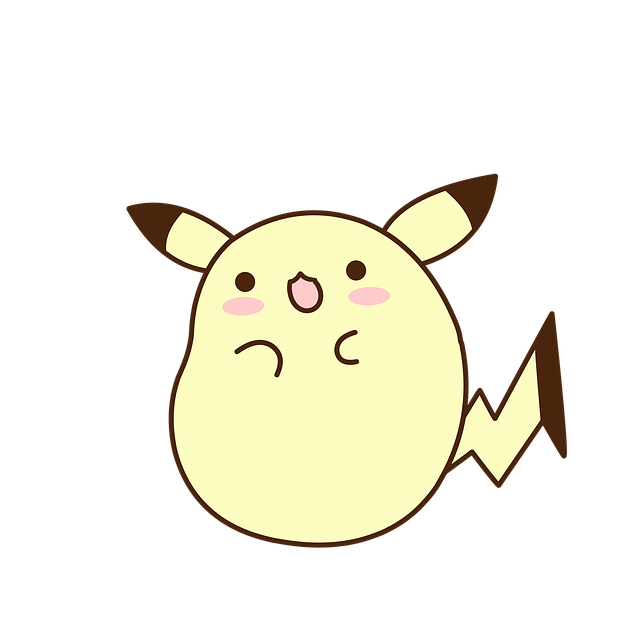
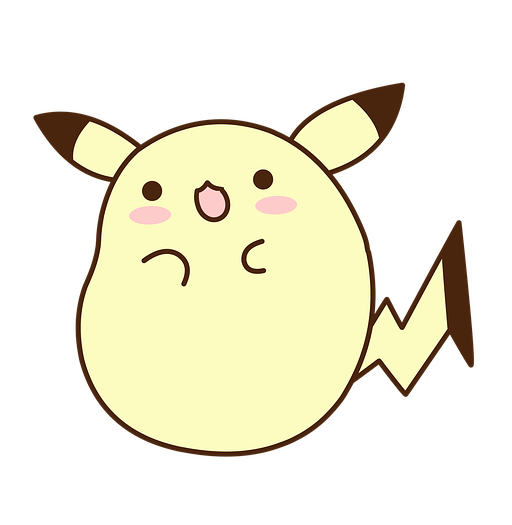
html updates

Changed region(s): [[0.0625, 0.1524, 0.9375, 0.8838]]

diff --git a/js/main.js b/js/main.js
@@ -86,11 +86,12 @@ disclaimerCloseBox.onclick = function() {
 
 
 let logo = document.getElementById("main-logo");
+let isSub = document.getElementById('isSub').innerHTML;
 
-let logoClicked= false;
+let logoClicked= true; 
 
 logo.onclick = function() {
-    if (!logoClicked) {
+    if (!logoClicked) {  
     document.documentElement.style.setProperty('--themeColor01', '#c1a231');
     document.documentElement.style.setProperty('--themeColor01-hover', '#5f4a0c');
     document.documentElement.style.setProperty('--themeColor02-hover', '#bea82d');
@@ -98,9 +99,17 @@ logo.onclick = function() {
     document.documentElement.style.setProperty('--themeColor04', '#f7f0c6');
     document.documentElement.style.setProperty('--themeColor05', 'rgb(249, 246, 224)');
     logoClicked= true;
+    if (isSub=="sub") {
+        console.log(logo.src)
+        logo.src="../img/pikachu.png";
+
+    } else {
+        logo.src="img/pikachu.png";
+    }
+    
 
     } else if (logoClicked) {
-
+    console.log(logo.src) 
     document.documentElement.style.setProperty('--themeColor01', '#a231c1');
     document.documentElement.style.setProperty('--themeColor01-hover', '#5f0c5f');
     document.documentElement.style.setProperty('--themeColor02-hover', '#712dbe');
@@ -108,10 +117,109 @@ logo.onclick = function() {
     document.documentElement.style.setProperty('--themeColor04', '#edc6f7');
     document.documentElement.style.setProperty('--themeColor05', 'rgb(247, 224, 249)');
     logoClicked= false;
+    logo.src="img/icon/ditto.png";
+    if (isSub=="sub") {
+        logo.src="../img/icon/ditto.png";
+    } else {
+        logo.src="img/icon/ditto.png";
+    }
 
     }
 
 };
+
+
+// let logoSub = document.getElementById("main-logo4");
+
+// let logoSubClicked= false;
+
+// logoSub.onclick = function() {
+//     if (!logoSubClicked) {
+//     document.documentElement.style.setProperty('--themeColor01', '#c1a231');
+//     document.documentElement.style.setProperty('--themeColor01-hover', '#5f4a0c');
+//     document.documentElement.style.setProperty('--themeColor02-hover', '#bea82d');
+//     document.documentElement.style.setProperty('--themeColor03', '#e5d693');
+//     document.documentElement.style.setProperty('--themeColor04', '#f7f0c6');
+//     document.documentElement.style.setProperty('--themeColor05', 'rgb(249, 246, 224)');
+//     logoSubClicked= true;
+//     //logoSub.src="../img/pikachu.png";
+
+//     } else if (logoSubClicked) {
+
+//     document.documentElement.style.setProperty('--themeColor01', '#a231c1');
+//     document.documentElement.style.setProperty('--themeColor01-hover', '#5f0c5f');
+//     document.documentElement.style.setProperty('--themeColor02-hover', '#712dbe');
+//     document.documentElement.style.setProperty('--themeColor03', '#d493e5');
+//     document.documentElement.style.setProperty('--themeColor04', '#edc6f7');
+//     document.documentElement.style.setProperty('--themeColor05', 'rgb(247, 224, 249)');
+//     logoSubClicked= false;
+//     //logoSub.src="../img/ditto.png";
+//     }
+
+// };
+
+
+
+// Get the button element
+const galleryBurger = document.getElementById('galleryBurger');
+const galleryBurgerSub = document.getElementById('galleryBurgerSub');
+
+// Add a mouseover event listener
+galleryBurger.addEventListener('mouseover', () => {
+  // Change the button's background color
+  galleryBurger.style.backgroundColor = 'var(--themeColor03)';
+  galleryBurgerSub.style.opacity = 1;
+  galleryBurgerSub.style.display ='block';
+  galleryBurgerSub.style.visibility ='visible';
+  galleryBurgerSub.style.height ='20rem';
+  galleryBurgerSub.style.transition ="all 1s";
+  
+});
+
+
+
+// Add a mouseout event listener
+galleryBurger.addEventListener('mouseout', () => {
+    // Change the button's background color back to its original color
+    // galleryBurger.style.backgroundColor = 'green';
+    // setTimeout(()=> {
+    //     galleryBurgerSub.style.opacity = 0;
+    //     galleryBurgerSub.style.display ='none';
+    //     galleryBurgerSub.style.visibility ='hidden';
+    //     galleryBurgerSub.style.height ='0rem';
+    //     galleryBurgerSub.style.transition ='all 1s ease-in-out';
+    // }, 1000);
+    galleryBurgerSub.style.opacity = 0;
+    galleryBurgerSub.style.display ='none';
+    galleryBurgerSub.style.visibility ='hidden';
+    galleryBurgerSub.style.height ='0rem';
+    galleryBurgerSub.style.transition ="all 1s";
+
+});
+
+  galleryBurgerSub.addEventListener('mouseover', () => {
+    // Change the button's background color
+    galleryBurger.style.backgroundColor = 'var(--themeColor01)';
+    galleryBurgerSub.style.opacity = 1;
+    galleryBurgerSub.style.display ='block';
+    galleryBurgerSub.style.visibility ='visible';
+    galleryBurgerSub.style.height ='20rem';
+    galleryBurgerSub.style.transition ="all 1s";
+    
+  });
+
+  galleryBurgerSub.addEventListener('mouseout', () => {
+    // Change the button's background color
+    galleryBurger.style.backgroundColor = 'var(--themeColor03)'
+    galleryBurgerSub.style.opacity = 0;
+    galleryBurgerSub.style.display ='none';
+    galleryBurgerSub.style.visibility ='hidden';
+    galleryBurgerSub.style.height ='0rem';
+    galleryBurgerSub.style.transition ="all 1s";
+
+    
+  });
+
 
 
 

diff --git a/css/main.css b/css/main.css
@@ -1,11 +1,11 @@
 :root{
-    --themeColor01:#a231c1;
-    --themeColor01-hover:#5f0c5f;
+    --themeColor01:#c1a231;
+    --themeColor01-hover:#5f4a0c;
     --themeColor02:#000000;
-    --themeColor02-hover:#712dbe;
-    --themeColor03:#d493e5;
-    --themeColor04:#edc6f7;
-    --themeColor05:rgb(247, 224, 249);
+    --themeColor02-hover:#bea82d;
+    --themeColor03:#e5d693;
+    --themeColor04:#f7f0c6;
+    --themeColor05:rgb(249, 246, 224);
     font-size: 62.5%; /*10px*/
     cursor: default;
     --menu-count: 4;
@@ -13,6 +13,29 @@
 
 
 }
+
+/*
+:root{
+    --themeColor01:#a231c1;
+    --themeColor01-hover:#5f0c5f;
+    --themeColor02:#000000;
+    --themeColor02-hover:#712dbe;
+    --themeColor03:#d493e5;
+    --themeColor04:#edc6f7;
+    --themeColor05:rgb(247, 224, 249);
+    font-size: 62.5%;
+    cursor: default;
+    --menu-count: 4;
+    
+
+
+}
+
+*/
+
+
+
+
 
 /* 
 :root{
@@ -31,8 +54,8 @@
 
 };
 
-*/
 
+*/
 
 
 
@@ -282,7 +305,7 @@ ul li:hover ul{
 
 .header-main-rc form input:focus {
     border: 0.2rem black solid;
-    outline: 0.4rem violet solid;
+    outline: 0.4rem var(--themeColor01-hover) solid;
 }
 
 .header-main-rc button {
@@ -308,7 +331,7 @@ ul li:hover ul{
 textarea, input {
     border: 0.1rem black solid;
     background-color: var(--themeColor04);
-    outline: 0.2rem violet solid;
+    outline: 0.2rem var(--themeColor03) solid;
     border-radius: 1rem;
     font-size: 1.2rem;
     padding: 0.2rem;
@@ -366,7 +389,9 @@ textarea, input {
     height: 6rem;
 }
 
-
+.isSub {
+    display: none;
+}
 
 
 /* FOOTER */
@@ -584,13 +609,17 @@ Typical Break Points:
         width: 100%;
         margin: 0 auto;
     }
+
+
+
     .burger-menu ul div div{
         padding-top: 1rem;
         padding-bottom: 1rem;
         border-bottom: 0.2rem solid var(--themeColor01);
         background-color: var(--themeColor04);
+        display: block;
     }
-    
+
 
 
     .burger-menu ul li:last-child{
@@ -608,8 +637,24 @@ Typical Break Points:
         text-align: center;
 
     }
-
-
+    /*
+    .burger-gallery-02{
+        display: none;
+    }
+    .burger-gallery-01{
+        display: none;
+    }
+    .burger-menu ul:hover .burger-gallery-01{
+        display: block;
+    }
+    */
+    .burger-gallery-sub {
+        opacity: 0;
+        display: none;
+        visibility: hidden;
+        height: 0;
+        transition: 1s all ease-in-out;
+    }
 
 
     .wrapper-main{

diff --git a/frameTop-dropdownNav.html b/frameTop-dropdownNav.html
@@ -24,8 +24,8 @@
     
         <ul>
             <li><a href="index.html">HOME</a></li>
-            <li ><a c href="gallery.html">GALLERY</a></li>
-            <div class= "burger-gallery-sub">
+            <li id ="galleryBurger" class="burger-gallery"><a  href="gallery.html">GALLERY</a></li>
+            <div id ="galleryBurgerSub" class= "burger-gallery-sub">
                 <div><a class= "burger-gallery-01" href="##">Scenery</a></div>
                 <div class= "burger-gallery-02"><a class= "burger-gallery-03" href="##">Pet</a></div>
                 <div><a href="##">Portrait</a></div>
@@ -45,7 +45,7 @@
 
     <header class="header-main">
         <div class="header-main-logo">
-            <img id = "main-logo" src="img/icon/ditto.png" alt="substitution image for logo">
+            <img id = "main-logo" src="img/pikachu.png" alt="substitution image for logo">
             <nav class="header-main-nav">
                 <ul>
                     <li><a href="index.html">HOME</a></li>
@@ -87,7 +87,7 @@
     <div class="header-margin">
         <!-- header margin -->
     </div>
-
+    <div id="isSub" class="isSub"></div>
     
     <!-- &&&&&&&&&&&&&&&&&&   -->
     <!-- Responsive Dropdown Navigation section -->

diff --git a/js/topFrame02-subfolder.js b/js/topFrame02-subfolder.js
@@ -27,7 +27,7 @@ document.write(`
 
     <header class="header-main">
         <div class="header-main-logo">
-            <img id="main-logo-sub" src="../img/icon/ditto.png" alt="substitution image for logo">
+            <img id="main-logo" src="../img/pikachu.png" alt="substitution image for logo">
             <nav class="header-main-nav">
                 <ul>
                     <li><a href="../index.html">HOME</a></li>
@@ -50,5 +50,6 @@ document.write(`
     <div class="header-margin">
         <!-- header margin -->
     </div>
+    <div id = "isSub" class="isSub">sub</div>
 
 `);

diff --git a/project/project01.html b/project/project01.html
@@ -18,10 +18,10 @@
     <!-- &&&&&&&&&&&&&&&&&&   -->
     <!-- header menu section -->
     <!-- &&&&&&&&&&&&&&&&&&   -->
-    <script src="../js/topFrame02-subfolderjs"></script>
+    <script src="../js/topFrame02-subfolder.js"></script>
 
     <!-- &&&&&&&&&&&&&&&&&&   -->
-    <!-- XXX section -->
+    <!-- Color Randomizer section -->
     <!-- &&&&&&&&&&&&&&&&&&   -->
 
     <div class = "Project1-ColorFlipper">
@@ -67,6 +67,9 @@
 
 
     <script src="../js/bottomFrame02-subfolder.js"></script>
+
+
+
     <script src="../js/project01.js"></script>
 
 </body>

diff --git a/js/topFrame02.js b/js/topFrame02.js
@@ -27,7 +27,7 @@ document.write(`
 
     <header class="header-main">
         <div class="header-main-logo">
-            <img src="img/icon/ditto.png" alt="substitution image for logo">
+            <img id="main-logo" src="img/pikachu.png" alt="substitution image for logo">
             <nav class="header-main-nav">
                 <ul>
                     <li><a href="index.html">HOME</a></li>
@@ -50,5 +50,6 @@ document.write(`
     <div class="header-margin">
         <!-- header margin -->
     </div>
+    <div id="isSub" class="isSub"></div>
 
     `);
